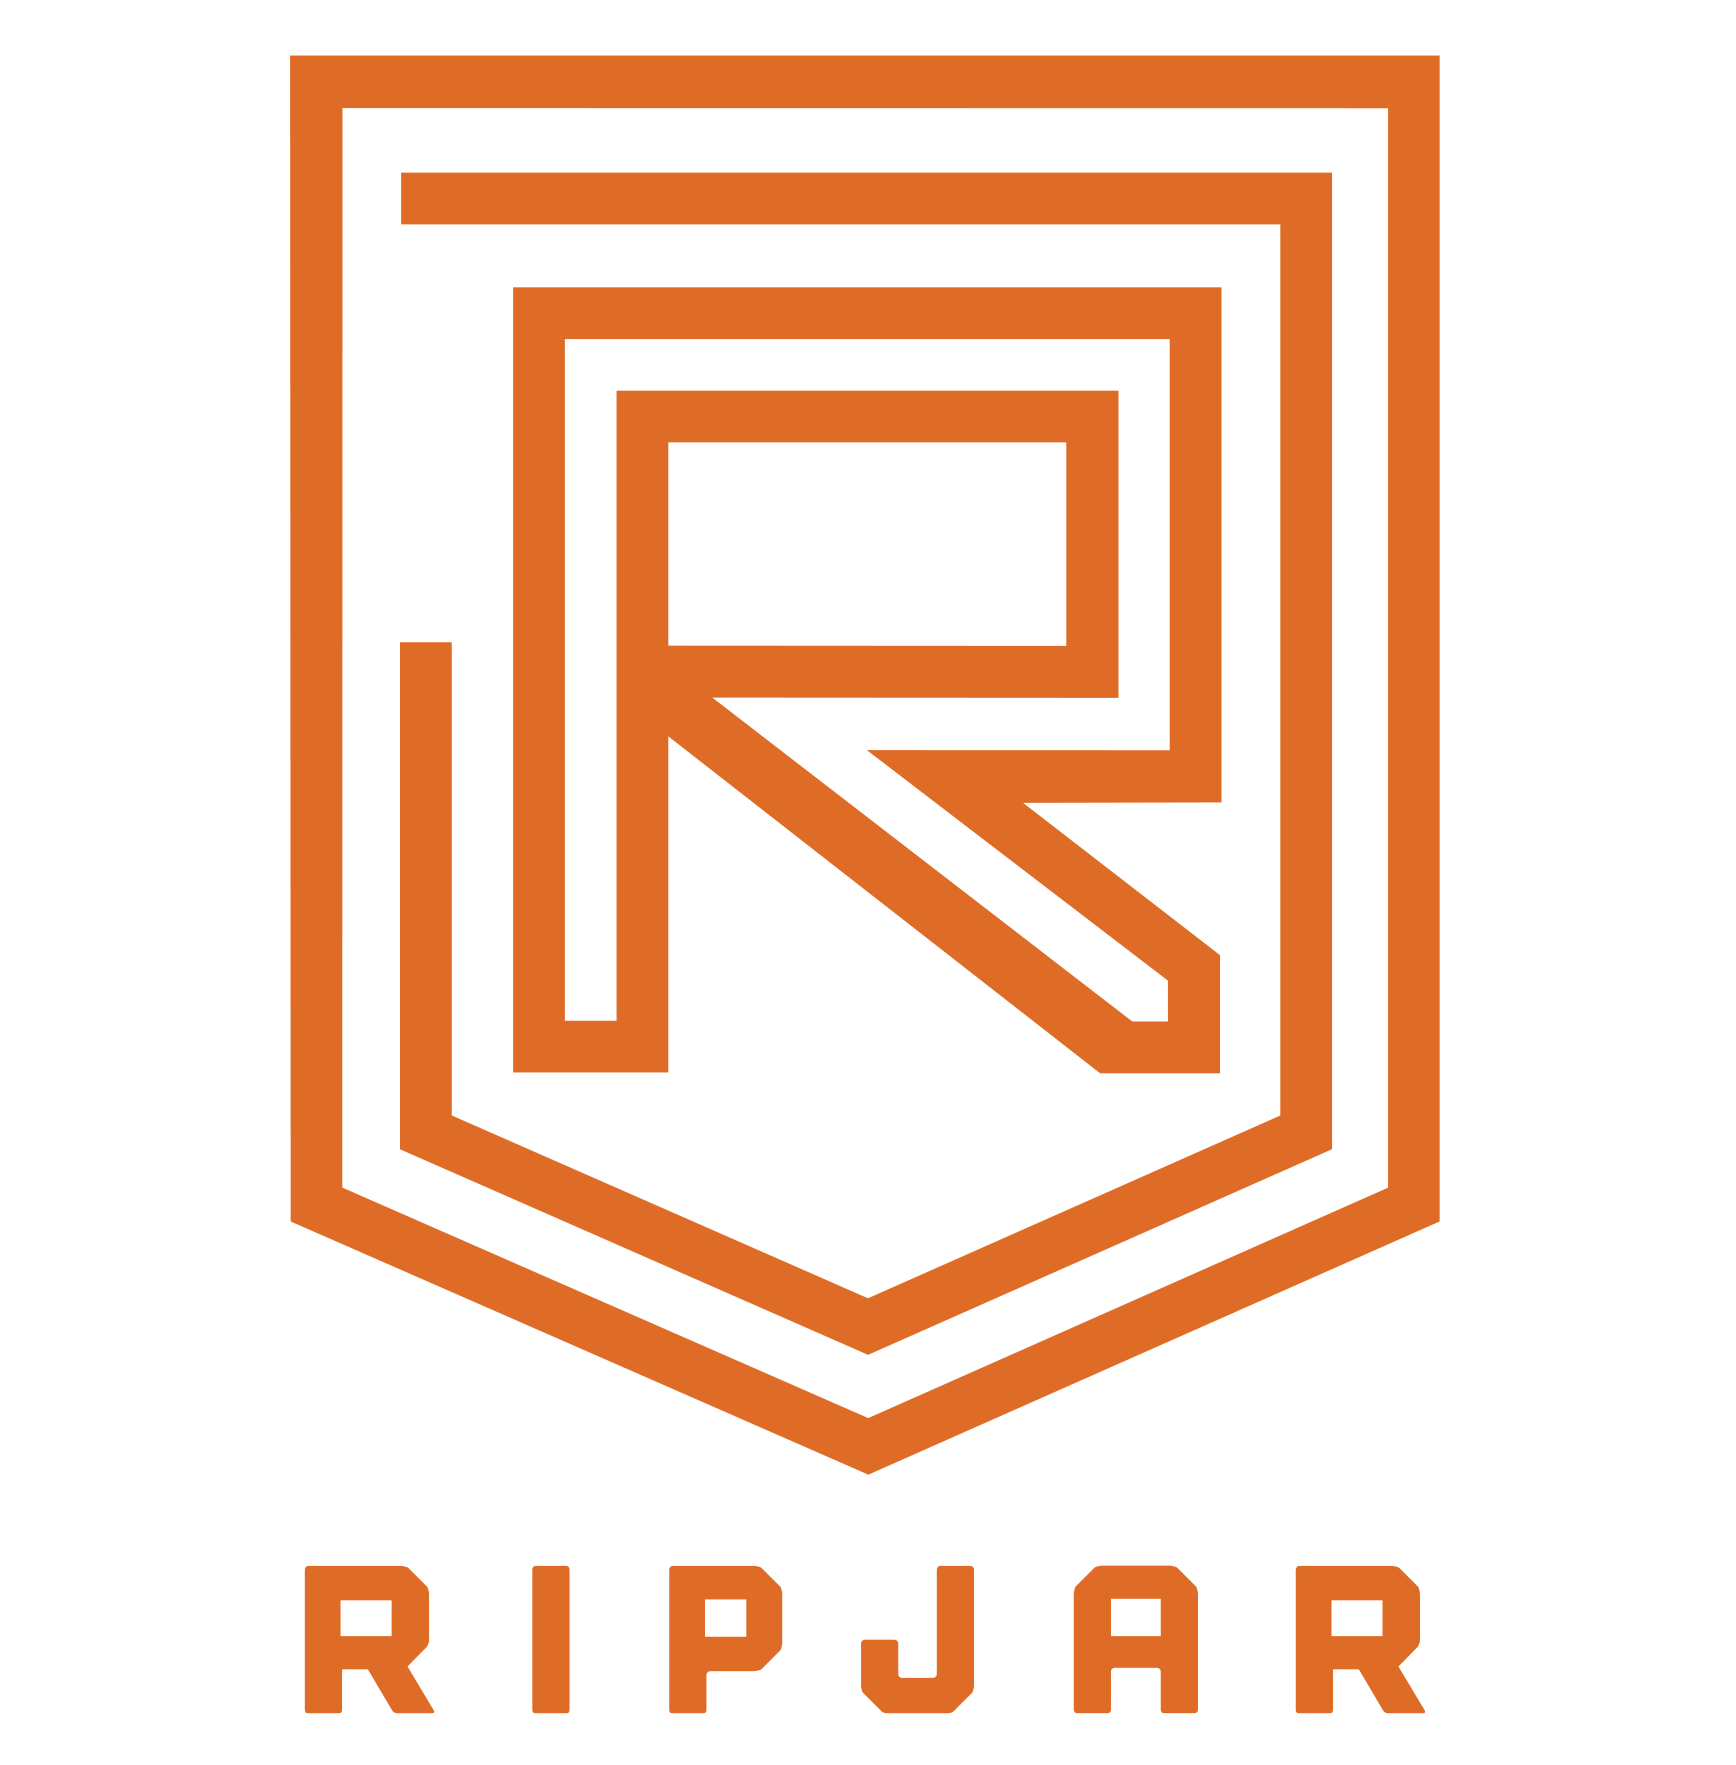
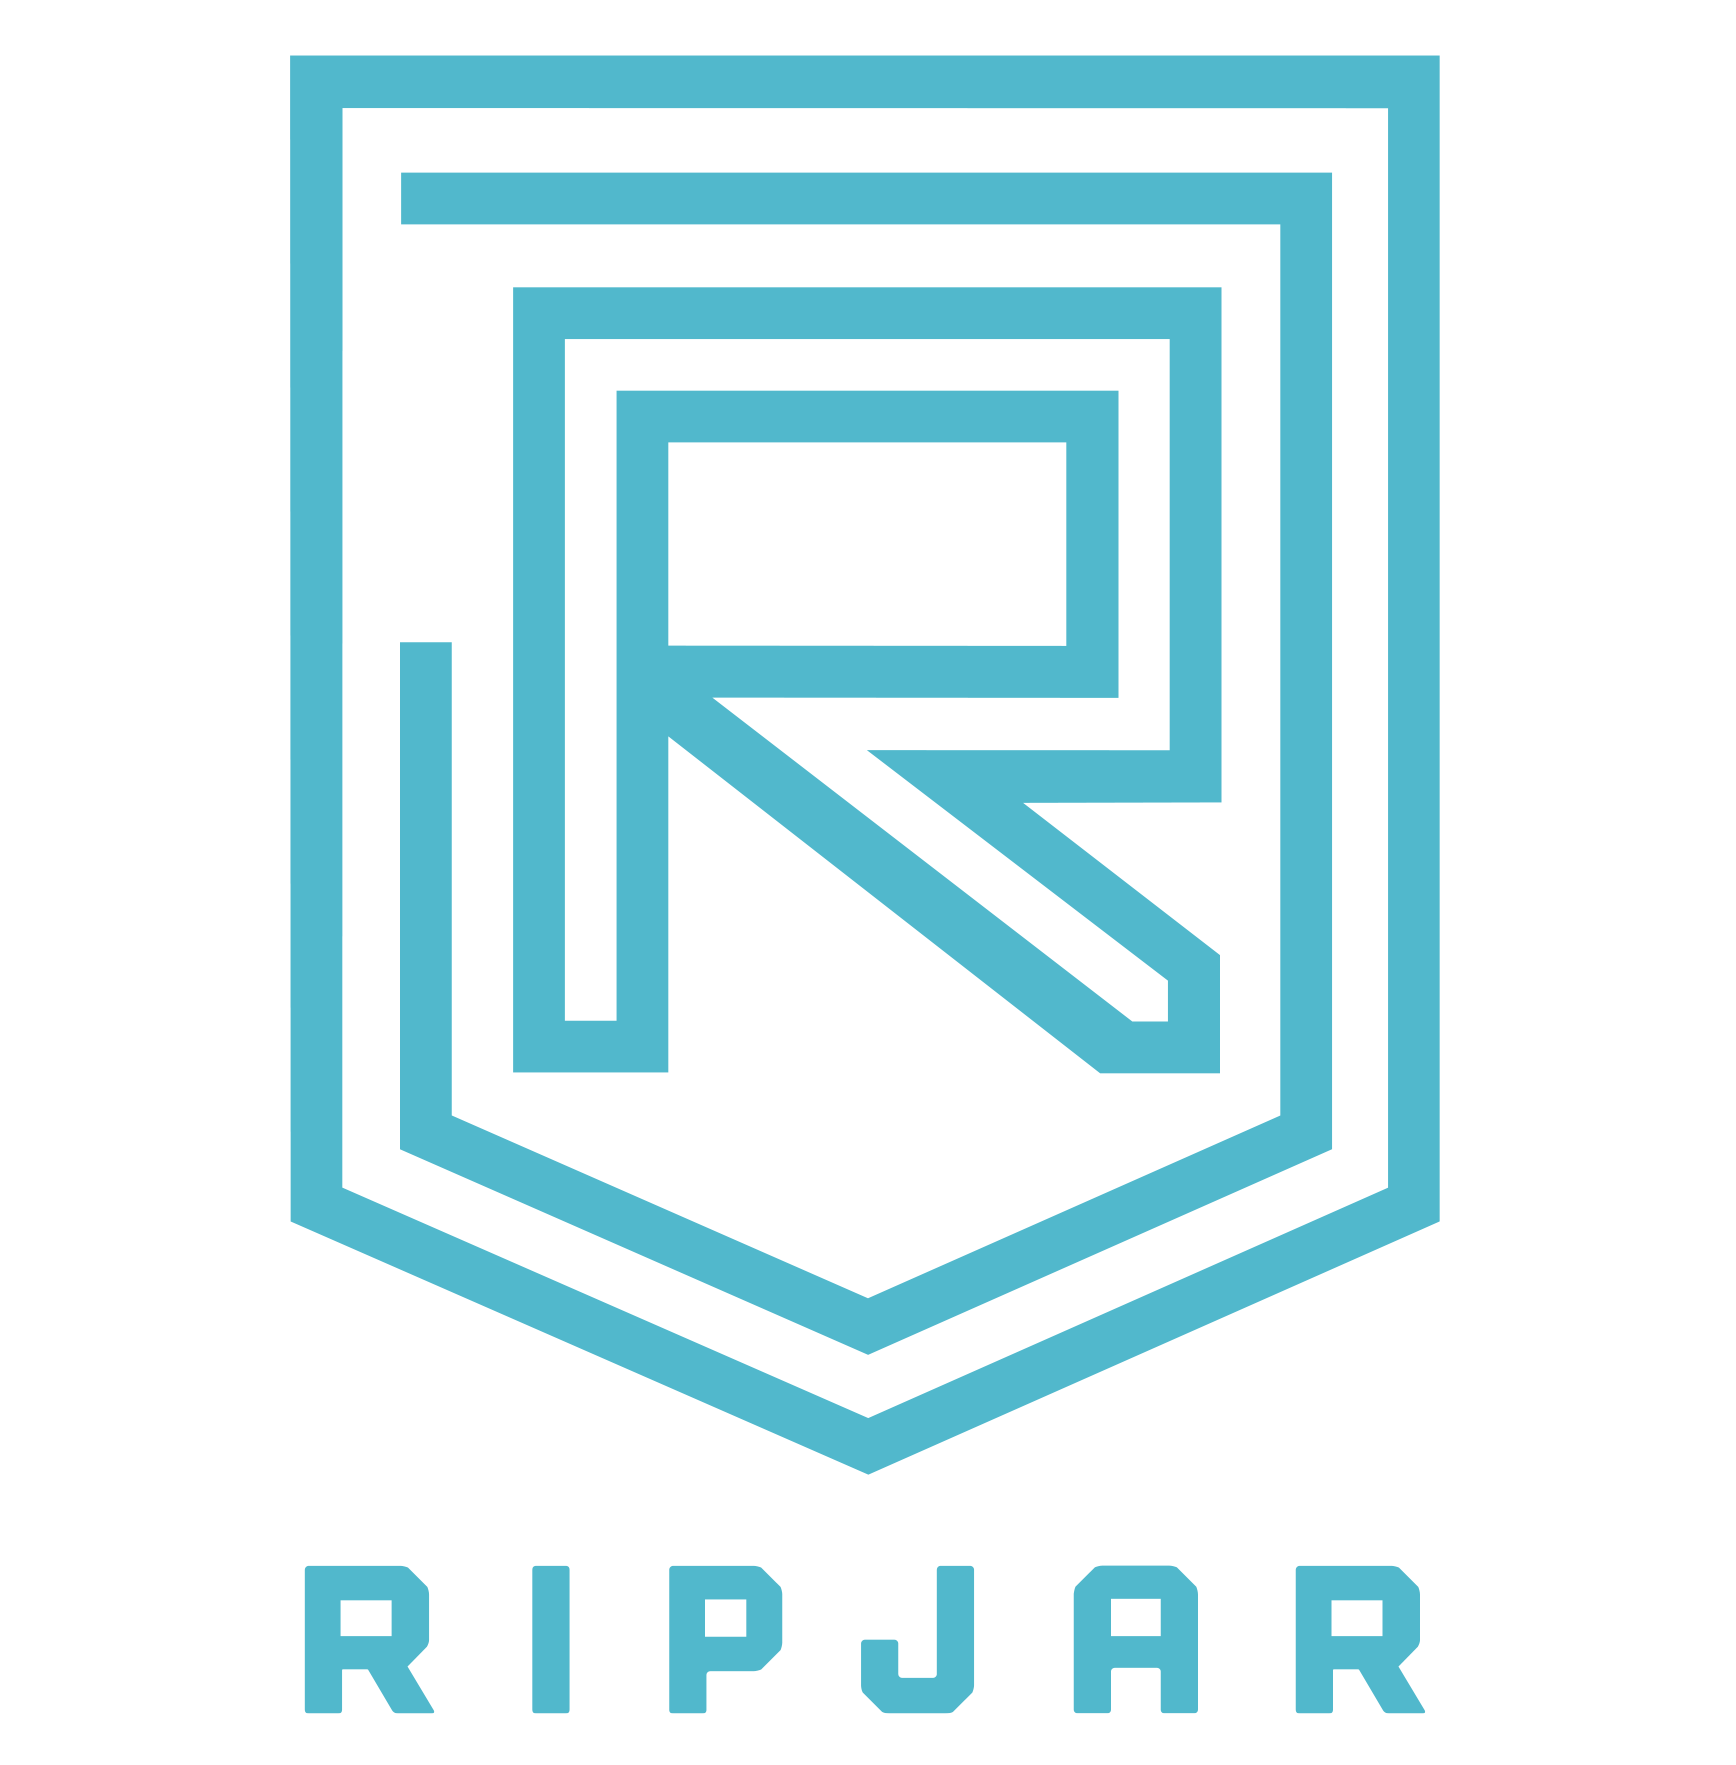
Timeline wireframe

diff --git a/components/TimelineWidget/TimelineNode/TimelineNode.tsx b/components/TimelineWidget/TimelineNode/TimelineNode.tsx
@@ -6,6 +6,7 @@ import React from 'react';
 interface TimelineNodeProps {
   align: 'left' | 'right';
   date: string;
+  hoverLogo?: StaticImageData;
   logo: StaticImageData;
   subtitle: string;
   title: string;
@@ -17,6 +18,7 @@ export const TimelineNode: React.FC<TimelineNodeProps> = ({
   date,
   align,
   logo,
+  hoverLogo,
 }) => {
   return (
     <>
@@ -28,9 +30,12 @@ export const TimelineNode: React.FC<TimelineNodeProps> = ({
       >
         <FadeIn>
           <div
-            className={clsx('relative w-16 md:w-24 lg:w-32 mr-8', {
-              'md:ml-8 md:mr-0': align === 'right',
-            })}
+            className={clsx(
+              'group/logo relative w-16 md:w-24 lg:w-32 mr-8',
+              {
+                'md:ml-8 md:mr-0': align === 'right',
+              },
+            )}
           >
             <Image
               src={logo.src}
@@ -39,7 +44,22 @@ export const TimelineNode: React.FC<TimelineNodeProps> = ({
               height={logo.height}
               placeholder="blur"
               blurDataURL={logo.blurDataURL}
+              className={clsx(
+                'transition-opacity duration-500 ease-in-out',
+                hoverLogo ? 'opacity-100 group-hover/logo:opacity-0' : undefined,
+              )}
             />
+            {hoverLogo && (
+              <Image
+                src={hoverLogo.src}
+                alt={title}
+                width={hoverLogo.width}
+                height={hoverLogo.height}
+                placeholder="blur"
+                blurDataURL={hoverLogo.blurDataURL}
+                className="absolute inset-0 opacity-0 transition-opacity duration-500 ease-in-out group-hover/logo:opacity-100"
+              />
+            )}
           </div>
         </FadeIn>
         <FadeIn

diff --git a/components/TimelineWidget/TimelineWidget.tsx b/components/TimelineWidget/TimelineWidget.tsx
@@ -1,5 +1,8 @@
 import AtomLogo from '@image/atom.png';
+import AtomOriginalLogo from '@image/atom-original.png';
 import BofaLogo from '@image/bofa.png';
+import BofaOriginalLogo from '@image/bofa-original.png';
+import RipjarOriginalLogo from '@image/ripjar-original.png';
 import RipjarLogo from '@image/ripjar.png';
 import { clsx } from 'clsx';
 import React from 'react';
@@ -22,6 +25,7 @@ export const TimelineWidget: React.FC = () => (
       subtitle="Senior Front-End Engineer"
       date="Apr 2023 → Present"
       align="left"
+      hoverLogo={RipjarOriginalLogo}
       logo={RipjarLogo}
     />
     <TimelineNode
@@ -29,6 +33,7 @@ export const TimelineWidget: React.FC = () => (
       subtitle="Front-End Engineer"
       date="Jul 2022 → Jan 2023"
       align="right"
+      hoverLogo={AtomOriginalLogo}
       logo={AtomLogo}
     />
     <TimelineNode
@@ -36,6 +41,7 @@ export const TimelineWidget: React.FC = () => (
       subtitle="Tech Analyst"
       date="Jul 2020 → Jun 2022"
       align="left"
+      hoverLogo={BofaOriginalLogo}
       logo={BofaLogo}
     />
     <TimelineNode
@@ -43,6 +49,7 @@ export const TimelineWidget: React.FC = () => (
       subtitle="Summer Intern"
       date="Jun 2019 → Aug 2019"
       align="right"
+      hoverLogo={BofaOriginalLogo}
       logo={BofaLogo}
     />
   </div>
